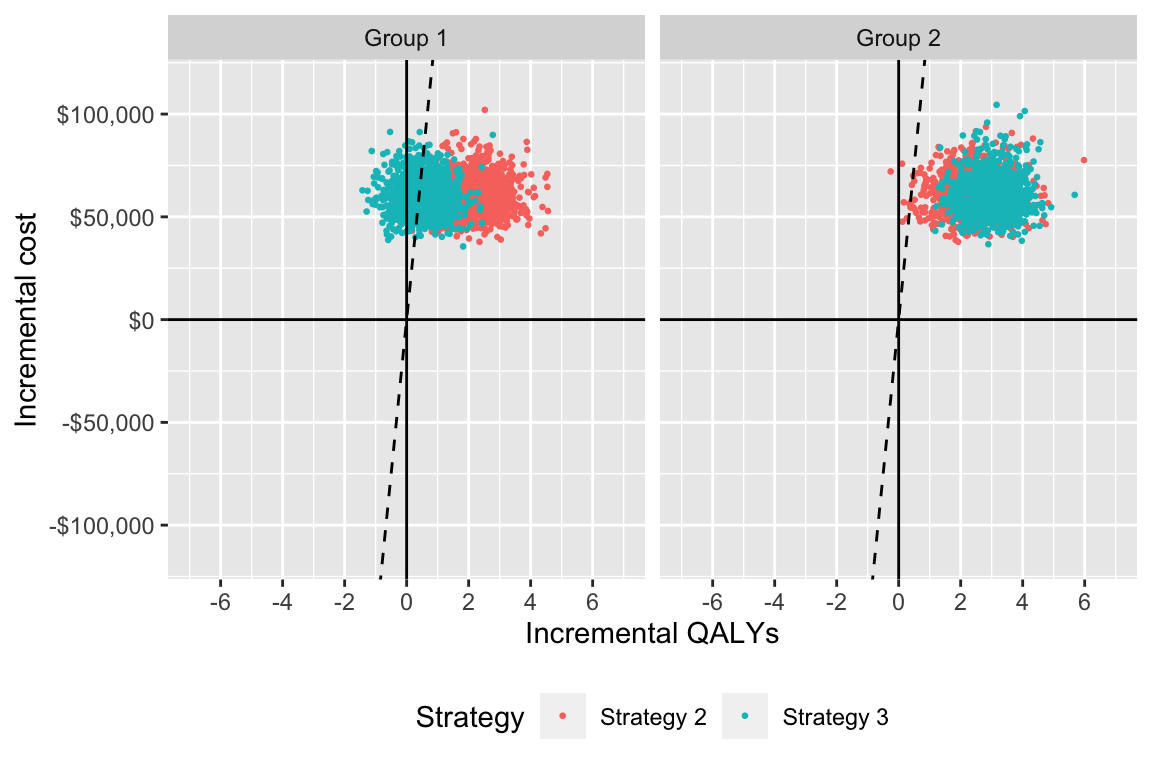
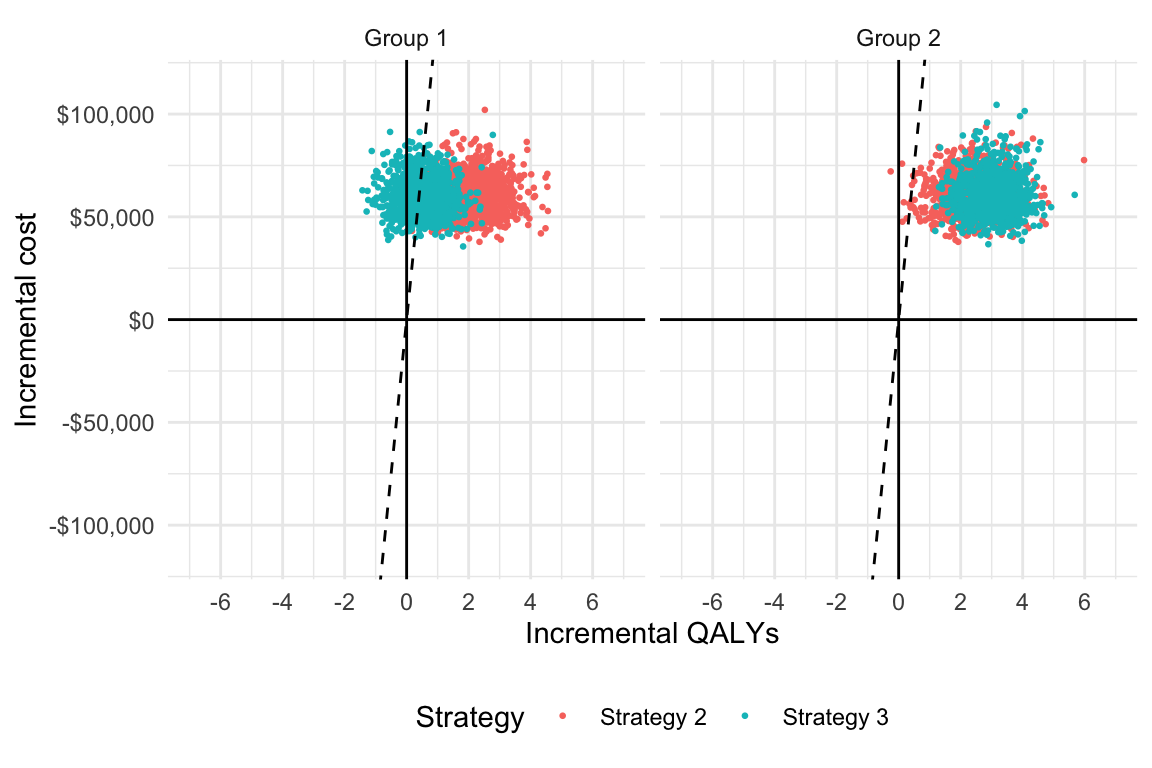
A few more replacecements of icea with cea and some more modifications to the CEA vignette

diff --git a/docs/dev/articles/cea.html b/docs/dev/articles/cea.html
@@ -111,7 +111,7 @@
     <div class="page-header toc-ignore">
       <h1 data-toc-skip>Cost-effectiveness analysis</h1>
             
-            <h4 class="date">2020-09-18</h4>
+            <h4 class="date">2020-09-19</h4>
       
       <small class="dont-index">Source: <a href="https://github.com/hesim-dev/hesim/blob/master/vignettes/cea.Rmd"><code>vignettes/cea.Rmd</code></a></small>
       <div class="hidden name"><code>cea.Rmd</code></div>
@@ -132,13 +132,13 @@
 <li>cost-effectiveness acceptability frontiers (CEAFs).</li>
 <li>the expected value of perfect information (EVPI).</li>
 </ul>
-<p>Cost-effectiveness analysis (CEA) can be performed for a single target population of interest or used to perform subgroup analysis, which is sometimes referred to as individualized CEA (iCEA).</p>
-<p>The rest of this article provides an overview of CEA and how it can be conducted using <code>hesim</code>. The perspective is Bayesian in nature in that it is concerned with estimating the entire distribution of outcomes rather than just expected values <span class="citation">(Baio 2012; Baio and Dawid 2015)</span>. It also shows how an iCEA can be performed so that both optimal treatments and the cost-effectiveness of those treatments vary across individuals <span class="citation">(Basu and Meltzer 2007; Espinoza et al. 2014)</span>.</p>
+<p>Cost-effectiveness analysis (CEA) can be performed for a single target population or for different subgroups. The latter is sometimes referred to as individualized CEA (iCEA).</p>
+<p>The rest of this article provides an overview of CEA and how it can be conducted using <code>hesim</code>. The perspective is Bayesian in nature in that it is concerned with estimating the distribution of outcomes rather than just expected values <span class="citation">(Baio 2012; Baio and Dawid 2015)</span>. It also shows how an iCEA can be performed so that both optimal treatments and the cost-effectiveness of those treatments vary across individuals <span class="citation">(Basu and Meltzer 2007; Espinoza et al. 2014)</span>.</p>
 </div>
 <div id="framework" class="section level1">
 <h1 class="hasAnchor">
 <a href="#framework" class="anchor"></a>Framework</h1>
-<p>Decision analysis provides a formal framework for making treatment decisions based on the utility that a therapy provides to a patient population. Decisions are typically made using a net benefit approach grounded in expected utility theory. The optimal treatment strategy is the one that maximizes expected NMBs where expected NMBs are calculated by averaging over the patient population and uncertain parameters <span class="math inline">\(\theta\)</span>. For a given subgroup <span class="math inline">\(g\)</span> and parameter set <span class="math inline">\(\theta\)</span>, NMBs are computed as the difference between the monetized health gains from an intervention less costs, or,</p>
+<p>Decision theory provides a formal framework for making treatment decisions based on the utility that a therapy provides to a patient population. Decisions are typically made using a net benefit approach grounded in expected utility theory. The optimal treatment strategy is the one that maximizes expected NMBs where expected NMBs are calculated by averaging over the patient population and uncertain parameters <span class="math inline">\(\theta\)</span>. For a given subgroup <span class="math inline">\(g\)</span> and parameter set <span class="math inline">\(\theta\)</span>, NMBs are computed as the difference between the monetized health gains from an intervention less costs, or,</p>
 <p><span class="math display">\[
 \begin{aligned}
 NMB_g(j,\theta) = e_{gj}\cdot k- c_{gj},
@@ -226,22 +226,22 @@ c_{gj} &amp;= [c_{gj}^1, c_{gj}^2, \dots, c_{gj}^n].
 ## 1: Strategy 1 1200672 1200323
 ## 2: Strategy 2 1447770 1509467
 ## 3: Strategy 3 1215793 1589370</code></pre>
-<p>A number of measures have been proposed in the health economics literature to summarize the PSA. Below we describe the most common measures, which can be calculated using the functions <code>cea</code> and <code>cea_pw</code>. The <code>cea</code> function summarizes results by taking into account each treatment strategy in the analysis, while the function <code>cea_pw</code> summarizes “pairwise” results in which each treatment is compared to a comparator.</p>
-<p><code>cea</code> and <code>cea_pw</code> are generic functions that can be used to summarize results from a <code>data.table</code> containing simulated costs and QALYs or from a <code><a href="../reference/ce.html">hesim::ce</a></code> object produced from the <code>$summarize()</code> method of an economic model. In this example we use a <code>data.table</code> object.</p>
+<p>A number of measures have been proposed in the health economics literature to summarize the PSA. Below we describe the most common measures, which can be calculated using the functions <code><a href="../reference/cea.html">cea()</a></code> and <code><a href="../reference/cea.html">cea_pw()</a></code>. The former summarizes results by taking into account each treatment strategy in the analysis, while the latter summarizes “pairwise” results in which each treatment is compared to a comparator.</p>
+<p>Both are generic functions that can be used to summarize results from a <code>data.table</code> containing simulated costs and QALYs or from a <code><a href="../reference/ce.html">hesim::ce</a></code> object produced from the <code>$summarize()</code> method of an economic model. In this example we use a <code>data.table</code> object.</p>
 <div class="sourceCode" id="cb5"><html><body><pre class="r"><span class="fu"><a href="https://rdrr.io/r/base/library.html">library</a></span>(<span class="st">"hesim"</span>)
 <span class="no">ktop</span> <span class="kw">&lt;-</span> <span class="fl">200000</span>
 <span class="no">cea</span> <span class="kw">&lt;-</span>  <span class="fu"><a href="../reference/cea.html">cea</a></span>(<span class="no">ce</span>, <span class="kw">k</span> <span class="kw">=</span> <span class="fu"><a href="https://rdrr.io/r/base/seq.html">seq</a></span>(<span class="fl">0</span>, <span class="no">ktop</span>, <span class="fl">500</span>), <span class="kw">sample</span> <span class="kw">=</span> <span class="st">"sample"</span>, <span class="kw">strategy</span> <span class="kw">=</span> <span class="st">"strategy"</span>,
             <span class="kw">grp</span> <span class="kw">=</span> <span class="st">"grp"</span>, <span class="kw">e</span> <span class="kw">=</span> <span class="st">"qalys"</span>, <span class="kw">c</span> <span class="kw">=</span> <span class="st">"cost"</span>)</pre></body></html></div>
 <p>The first argument is a <code>data.table</code> that contains columns for the parameter sample (<code>sample</code>), treatment strategy (<code>strategy</code>), subgroup (<code>grp</code>), clinical effectiveness (<code>e</code>), and costs (<code>c</code>). Users specify the names of the relevant columns in their output table as strings. The other relevant parameter is <span class="math inline">\(k\)</span>, which is a range of willingness to pay values to use for estimating NMBs.</p>
-<p>Likewise, we can use <code>cea_pw</code> to summarize the PSA when directly comparing the two treatment strategies (Strategy 2 and Strategy 3) to the comparator (Strategy 1).</p>
+<p>Likewise, we can use <code><a href="../reference/cea.html">cea_pw()</a></code> to summarize the PSA when directly comparing the two treatment strategies (Strategy 2 and Strategy 3) to the comparator (Strategy 1).</p>
 <div class="sourceCode" id="cb6"><html><body><pre class="r"><span class="no">cea_pw</span> <span class="kw">&lt;-</span>  <span class="fu"><a href="../reference/cea.html">cea_pw</a></span>(<span class="no">ce</span>,  <span class="kw">k</span> <span class="kw">=</span> <span class="fu"><a href="https://rdrr.io/r/base/seq.html">seq</a></span>(<span class="fl">0</span>, <span class="no">ktop</span>, <span class="fl">500</span>), <span class="kw">comparator</span> <span class="kw">=</span> <span class="st">"Strategy 1"</span>,
                   <span class="kw">sample</span> <span class="kw">=</span> <span class="st">"sample"</span>, <span class="kw">strategy</span> <span class="kw">=</span> <span class="st">"strategy"</span>, <span class="kw">grp</span> <span class="kw">=</span> <span class="st">"grp"</span>,
                   <span class="kw">e</span> <span class="kw">=</span> <span class="st">"qalys"</span>, <span class="kw">c</span> <span class="kw">=</span> <span class="st">"cost"</span>)</pre></body></html></div>
-<p>The same inputs are used as in <code>cea</code> except users must specify the name of the comparator strategy.</p>
+<p>The same inputs are used as in <code><a href="../reference/cea.html">cea()</a></code> except users must specify the name of the comparator strategy.</p>
 <div id="distribution-of-health-and-cost-outcomes" class="section level2">
 <h2 class="hasAnchor">
 <a href="#distribution-of-health-and-cost-outcomes" class="anchor"></a>Distribution of health and cost outcomes</h2>
-<p><code>cea</code> produces means, 2.5% quantiles, and 97.5% quantiles for costs and efficacy.</p>
+<p><code><a href="../reference/cea.html">cea()</a></code> produces means, 2.5% quantiles, and 97.5% quantiles for costs and efficacy.</p>
 <div class="sourceCode" id="cb7"><html><body><pre class="r"><span class="fu"><a href="https://rdrr.io/r/base/print.html">print</a></span>(<span class="no">cea</span>$<span class="no">summary</span>)</pre></body></html></div>
 <pre><code>##      strategy     grp    e_mean  e_lower   e_upper       c_mean      c_lower
 ## 1: Strategy 1 Group 1  8.004532 7.625347  8.399756     7.427476     6.134231
@@ -267,7 +267,7 @@ c_{gj} &amp;= [c_{gj}^1, c_{gj}^2, \dots, c_{gj}^n].
 ## 4: Strategy 2 Group 2 60164.995846    10.462405
 ## 5: Strategy 3 Group 1 60437.497004     8.504607
 ## 6: Strategy 3 Group 2 59557.552101    11.006864</code></pre>
-<p>Similarly, <code>cea_pw</code> produces means, 2.5% quantiles, and 97.5% quantiles for incremental costs and incremental efficacy. The table also contains the ICER, which is equal to expected incremental costs divided by the measure of expected incremental efficacy.</p>
+<p>Similarly, <code><a href="../reference/cea.html">cea_pw()</a></code> produces means, 2.5% quantiles, and 97.5% quantiles for incremental costs and incremental efficacy. The table also contains the ICER, which is equal to expected incremental costs divided by the measure of expected incremental efficacy.</p>
 <div class="sourceCode" id="cb11"><html><body><pre class="r"><span class="fu"><a href="https://rdrr.io/r/base/print.html">print</a></span>(<span class="no">cea_pw</span>$<span class="no">summary</span>)</pre></body></html></div>
 <pre><code>##      strategy     grp   ie_mean   ie_lower ie_upper  ic_mean ic_lower ic_upper
 ## 1: Strategy 2 Group 1 2.0511771  0.4379639 3.683574 60579.07 45169.67 80640.24
@@ -284,11 +284,8 @@ c_{gj} &amp;= [c_{gj}^1, c_{gj}^2, \dots, c_{gj}^n].
 <h2 class="hasAnchor">
 <a href="#cost-effectiveness-plane" class="anchor"></a>Cost-effectiveness plane</h2>
 <p>The cost-effectiveness plane plots the incremental effectiveness of a treatment strategy (relative to a comparator) against the incremental cost of the treatment strategy. The plot is useful because it demonstrates both the uncertainty and the magnitude of the estimates. Each point on the plot is from a particular random draw from the PSA.</p>
-<p>Data for plotting a cost-effectiveness plane comes from the <code>delta</code> output generated from the <code>cea_pw</code> function, which, for each sampled parameter set and treatment strategy, estimates differences in costs and QALYs relative to the comparator. The dotted line in the plot is the willingness to pay line, with slope equal to the value of <span class="math inline">\(k\)</span>. For a given <span class="math inline">\(k\)</span>, points below the line are cost-effective while those above it are not.</p>
-<div class="sourceCode" id="cb13"><html><body><pre class="r"><span class="fu"><a href="https://rdrr.io/r/base/library.html">library</a></span>(<span class="st">"ggplot2"</span>)
-<span class="fu"><a href="https://rdrr.io/r/base/library.html">library</a></span>(<span class="st">"scales"</span>)
-
-<span class="fu"><a href="https://rdrr.io/r/utils/head.html">head</a></span>(<span class="no">cea_pw</span>$<span class="no">delta</span>)</pre></body></html></div>
+<p>Data for plotting a cost-effectiveness plane comes from the <code>delta</code> output generated from the <code><a href="../reference/cea.html">cea_pw()</a></code> function, which, for each sampled parameter set and treatment strategy, estimates differences in costs and QALYs relative to the comparator.</p>
+<div class="sourceCode" id="cb13"><html><body><pre class="r"><span class="fu"><a href="https://rdrr.io/r/utils/head.html">head</a></span>(<span class="no">cea_pw</span>$<span class="no">delta</span>)</pre></body></html></div>
 <pre><code>##    sample   strategy     grp       ie       ic
 ## 1:      1 Strategy 2 Group 1 1.497467 57687.97
 ## 2:      2 Strategy 2 Group 1 1.428877 65857.23
@@ -296,14 +293,24 @@ c_{gj} &amp;= [c_{gj}^1, c_{gj}^2, \dots, c_{gj}^n].
 ## 4:      4 Strategy 2 Group 1 1.475885 64228.60
 ## 5:      5 Strategy 2 Group 1 1.045039 58613.55
 ## 6:      6 Strategy 2 Group 1 1.303221 45173.35</code></pre>
-<div class="sourceCode" id="cb15"><html><body><pre class="r"><span class="no">ylim</span> <span class="kw">&lt;-</span> <span class="fu"><a href="https://rdrr.io/r/base/Extremes.html">max</a></span>(<span class="no">cea_pw</span>$<span class="no">delta</span>[, <span class="no">ic</span>]) * <span class="fl">1.1</span>
+<p>The dotted line in the plot is the willingness to pay line, with slope equal to the value of <span class="math inline">\(k\)</span>. For a given <span class="math inline">\(k\)</span>, points below the line are cost-effective while those above it are not.</p>
+<div class="sourceCode" id="cb15"><html><body><pre class="r"><span class="fu"><a href="https://rdrr.io/r/base/library.html">library</a></span>(<span class="st">"ggplot2"</span>)
+<span class="fu"><a href="https://rdrr.io/r/base/library.html">library</a></span>(<span class="st">"scales"</span>)
+<span class="fu"><a href="https://ggplot2.tidyverse.org/reference/theme_get.html">theme_set</a></span>(<span class="fu"><a href="https://ggplot2.tidyverse.org/reference/ggtheme.html">theme_minimal</a></span>())
+
+<span class="no">ylim</span> <span class="kw">&lt;-</span> <span class="fu"><a href="https://rdrr.io/r/base/Extremes.html">max</a></span>(<span class="no">cea_pw</span>$<span class="no">delta</span>[, <span class="no">ic</span>]) * <span class="fl">1.1</span>
 <span class="no">xlim</span> <span class="kw">&lt;-</span> <span class="fu"><a href="https://rdrr.io/r/base/Round.html">ceiling</a></span>(<span class="fu"><a href="https://rdrr.io/r/base/Extremes.html">max</a></span>(<span class="no">cea_pw</span>$<span class="no">delta</span>[, <span class="no">ie</span>]) * <span class="fl">1.1</span>)
 <span class="fu"><a href="https://ggplot2.tidyverse.org/reference/ggplot.html">ggplot</a></span>(<span class="no">cea_pw</span>$<span class="no">delta</span>, <span class="fu"><a href="https://ggplot2.tidyverse.org/reference/aes.html">aes</a></span>(<span class="kw">x</span> <span class="kw">=</span> <span class="no">ie</span>, <span class="kw">y</span> <span class="kw">=</span> <span class="no">ic</span>, <span class="kw">col</span> <span class="kw">=</span> <span class="fu"><a href="https://rdrr.io/r/base/factor.html">factor</a></span>(<span class="no">strategy</span>))) +
-  <span class="fu"><a href="https://ggplot2.tidyverse.org/reference/geom_jitter.html">geom_jitter</a></span>(<span class="kw">size</span> <span class="kw">=</span> <span class="fl">.5</span>) + <span class="fu"><a href="https://ggplot2.tidyverse.org/reference/facet_wrap.html">facet_wrap</a></span>(~<span class="no">grp</span>) +
-  <span class="fu"><a href="https://ggplot2.tidyverse.org/reference/labs.html">xlab</a></span>(<span class="st">"Incremental QALYs"</span>) + <span class="fu"><a href="https://ggplot2.tidyverse.org/reference/labs.html">ylab</a></span>(<span class="st">"Incremental cost"</span>) +
-  <span class="fu"><a href="https://ggplot2.tidyverse.org/reference/scale_continuous.html">scale_y_continuous</a></span>(<span class="kw">label</span> <span class="kw">=</span> <span class="kw pkg">scales</span><span class="kw ns">::</span><span class="no"><a href="https://scales.r-lib.org//reference/label_dollar.html">dollar</a></span>, <span class="kw">limits</span> <span class="kw">=</span> <span class="fu"><a href="https://rdrr.io/r/base/c.html">c</a></span>(-<span class="no">ylim</span>, <span class="no">ylim</span>)) +
-  <span class="fu"><a href="https://ggplot2.tidyverse.org/reference/scale_continuous.html">scale_x_continuous</a></span>(<span class="kw">limits</span> <span class="kw">=</span> <span class="fu"><a href="https://rdrr.io/r/base/c.html">c</a></span>(-<span class="no">xlim</span>, <span class="no">xlim</span>), <span class="kw">breaks</span> <span class="kw">=</span> <span class="fu"><a href="https://rdrr.io/r/base/seq.html">seq</a></span>(-<span class="fl">6</span>, <span class="fl">6</span>, <span class="fl">2</span>)) +
-  <span class="fu"><a href="https://ggplot2.tidyverse.org/reference/theme.html">theme</a></span>(<span class="kw">legend.position</span> <span class="kw">=</span> <span class="st">"bottom"</span>) + <span class="fu"><a href="https://ggplot2.tidyverse.org/reference/scale_hue.html">scale_colour_discrete</a></span>(<span class="kw">name</span> <span class="kw">=</span> <span class="st">"Strategy"</span>) +
+  <span class="fu"><a href="https://ggplot2.tidyverse.org/reference/geom_jitter.html">geom_jitter</a></span>(<span class="kw">size</span> <span class="kw">=</span> <span class="fl">.5</span>) +
+  <span class="fu"><a href="https://ggplot2.tidyverse.org/reference/facet_wrap.html">facet_wrap</a></span>(~<span class="no">grp</span>) +
+  <span class="fu"><a href="https://ggplot2.tidyverse.org/reference/labs.html">xlab</a></span>(<span class="st">"Incremental QALYs"</span>) +
+  <span class="fu"><a href="https://ggplot2.tidyverse.org/reference/labs.html">ylab</a></span>(<span class="st">"Incremental cost"</span>) +
+  <span class="fu"><a href="https://ggplot2.tidyverse.org/reference/scale_continuous.html">scale_y_continuous</a></span>(<span class="kw">label</span> <span class="kw">=</span> <span class="kw pkg">scales</span><span class="kw ns">::</span><span class="no"><a href="https://scales.r-lib.org//reference/label_dollar.html">dollar</a></span>,
+                     <span class="kw">limits</span> <span class="kw">=</span> <span class="fu"><a href="https://rdrr.io/r/base/c.html">c</a></span>(-<span class="no">ylim</span>, <span class="no">ylim</span>)) +
+  <span class="fu"><a href="https://ggplot2.tidyverse.org/reference/scale_continuous.html">scale_x_continuous</a></span>(<span class="kw">limits</span> <span class="kw">=</span> <span class="fu"><a href="https://rdrr.io/r/base/c.html">c</a></span>(-<span class="no">xlim</span>, <span class="no">xlim</span>),
+                     <span class="kw">breaks</span> <span class="kw">=</span> <span class="fu"><a href="https://rdrr.io/r/base/seq.html">seq</a></span>(-<span class="fl">6</span>, <span class="fl">6</span>, <span class="fl">2</span>)) +
+  <span class="fu"><a href="https://ggplot2.tidyverse.org/reference/theme.html">theme</a></span>(<span class="kw">legend.position</span> <span class="kw">=</span> <span class="st">"bottom"</span>) +
+  <span class="fu"><a href="https://ggplot2.tidyverse.org/reference/scale_hue.html">scale_colour_discrete</a></span>(<span class="kw">name</span> <span class="kw">=</span> <span class="st">"Strategy"</span>) +
   <span class="fu"><a href="https://ggplot2.tidyverse.org/reference/geom_abline.html">geom_abline</a></span>(<span class="kw">slope</span> <span class="kw">=</span> <span class="fl">150000</span>, <span class="kw">linetype</span> <span class="kw">=</span> <span class="st">"dashed"</span>) +
   <span class="fu"><a href="https://ggplot2.tidyverse.org/reference/geom_abline.html">geom_hline</a></span>(<span class="kw">yintercept</span> <span class="kw">=</span> <span class="fl">0</span>) + <span class="fu"><a href="https://ggplot2.tidyverse.org/reference/geom_abline.html">geom_vline</a></span>(<span class="kw">xintercept</span> <span class="kw">=</span> <span class="fl">0</span>)</pre></body></html></div>
 <p><img src="cea_files/figure-html/ceplane_plot-1.png" width="576"></p>
@@ -517,26 +524,33 @@ maxj
 <pre><code>## 
 ##   1   2   3 
 ## 0.0 0.3 0.7</code></pre>
-<p>In this example, treatments 1, 2, and 3 have the highest NMBs a fraction 0, 0.3, and 0.7 of the time respectively. The <code>cea</code> function performs this same calculations for a range of values of <span class="math inline">\(k\)</span> and all <code>nsims</code> random draws of the simulation output. The output is a tidy <code>data.table</code> which facilitates plotting with <code>ggplot</code>.</p>
-<div class="sourceCode" id="cb19"><html><body><pre class="r"><span class="fu"><a href="https://ggplot2.tidyverse.org/reference/theme_get.html">theme_set</a></span>(<span class="fu"><a href="https://ggplot2.tidyverse.org/reference/ggtheme.html">theme_minimal</a></span>())
-<span class="fu"><a href="https://ggplot2.tidyverse.org/reference/ggplot.html">ggplot</a></span>(<span class="no">cea</span>$<span class="no">mce</span>, <span class="fu"><a href="https://ggplot2.tidyverse.org/reference/aes.html">aes</a></span>(<span class="kw">x</span> <span class="kw">=</span> <span class="no">k</span>, <span class="kw">y</span> <span class="kw">=</span> <span class="no">prob</span>, <span class="kw">col</span> <span class="kw">=</span> <span class="fu"><a href="https://rdrr.io/r/base/factor.html">factor</a></span>(<span class="no">strategy</span>))) +
-  <span class="fu"><a href="https://ggplot2.tidyverse.org/reference/geom_path.html">geom_line</a></span>() + <span class="fu"><a href="https://ggplot2.tidyverse.org/reference/facet_wrap.html">facet_wrap</a></span>(~<span class="no">grp</span>) + <span class="fu"><a href="https://ggplot2.tidyverse.org/reference/labs.html">xlab</a></span>(<span class="st">"Willingness to pay"</span>) +
+<p>In this example, treatments 1, 2, and 3 have the highest NMBs a fraction 0, 0.3, and 0.7 of the time respectively. The <code><a href="../reference/cea.html">cea()</a></code> function performs this same calculations for a range of values of <span class="math inline">\(k\)</span> and all <code>nsims</code> random draws of the simulation output. The output is a tidy <code>data.table</code> which facilitates plotting with <code>ggplot</code>.</p>
+<div class="sourceCode" id="cb19"><html><body><pre class="r"><span class="fu"><a href="https://ggplot2.tidyverse.org/reference/ggplot.html">ggplot</a></span>(<span class="no">cea</span>$<span class="no">mce</span>, <span class="fu"><a href="https://ggplot2.tidyverse.org/reference/aes.html">aes</a></span>(<span class="kw">x</span> <span class="kw">=</span> <span class="no">k</span>, <span class="kw">y</span> <span class="kw">=</span> <span class="no">prob</span>, <span class="kw">col</span> <span class="kw">=</span> <span class="fu"><a href="https://rdrr.io/r/base/factor.html">factor</a></span>(<span class="no">strategy</span>))) +
+  <span class="fu"><a href="https://ggplot2.tidyverse.org/reference/geom_path.html">geom_line</a></span>() +
+  <span class="fu"><a href="https://ggplot2.tidyverse.org/reference/facet_wrap.html">facet_wrap</a></span>(~<span class="no">grp</span>) +
+  <span class="fu"><a href="https://ggplot2.tidyverse.org/reference/labs.html">xlab</a></span>(<span class="st">"Willingness to pay"</span>) +
   <span class="fu"><a href="https://ggplot2.tidyverse.org/reference/labs.html">ylab</a></span>(<span class="st">"Probability most cost-effective"</span>) +
-  <span class="fu"><a href="https://ggplot2.tidyverse.org/reference/scale_continuous.html">scale_x_continuous</a></span>(<span class="kw">breaks</span> <span class="kw">=</span> <span class="fu"><a href="https://rdrr.io/r/base/seq.html">seq</a></span>(<span class="fl">0</span>, <span class="no">ktop</span>, <span class="fl">100000</span>), <span class="kw">label</span> <span class="kw">=</span> <span class="kw pkg">scales</span><span class="kw ns">::</span><span class="no"><a href="https://scales.r-lib.org//reference/label_dollar.html">dollar</a></span>) +
-  <span class="fu"><a href="https://ggplot2.tidyverse.org/reference/theme.html">theme</a></span>(<span class="kw">legend.position</span> <span class="kw">=</span> <span class="st">"bottom"</span>) + <span class="fu"><a href="https://ggplot2.tidyverse.org/reference/scale_hue.html">scale_colour_discrete</a></span>(<span class="kw">name</span> <span class="kw">=</span> <span class="st">"Strategy"</span>)</pre></body></html></div>
+  <span class="fu"><a href="https://ggplot2.tidyverse.org/reference/scale_continuous.html">scale_x_continuous</a></span>(<span class="kw">breaks</span> <span class="kw">=</span> <span class="fu"><a href="https://rdrr.io/r/base/seq.html">seq</a></span>(<span class="fl">0</span>, <span class="no">ktop</span>, <span class="fl">100000</span>),
+                     <span class="kw">label</span> <span class="kw">=</span> <span class="kw pkg">scales</span><span class="kw ns">::</span><span class="no"><a href="https://scales.r-lib.org//reference/label_dollar.html">dollar</a></span>) +
+  <span class="fu"><a href="https://ggplot2.tidyverse.org/reference/theme.html">theme</a></span>(<span class="kw">legend.position</span> <span class="kw">=</span> <span class="st">"bottom"</span>) +
+  <span class="fu"><a href="https://ggplot2.tidyverse.org/reference/scale_hue.html">scale_colour_discrete</a></span>(<span class="kw">name</span> <span class="kw">=</span> <span class="st">"Strategy"</span>)</pre></body></html></div>
 <p><img src="cea_files/figure-html/mce_plot-1.png" width="576"></p>
 <p>In group 1, Strategy 2 provides the greatest NMBs with high probability for almost all reasonable values of k. In group 2, the results are less certain, although Strategy 3 provides the greatest NMBs with a higher probability than Strategy 2.</p>
 </div>
 <div id="pairwise-comparison" class="section level3">
 <h3 class="hasAnchor">
 <a href="#pairwise-comparison" class="anchor"></a>Pairwise comparison</h3>
-<p>It is also possible to compare each strategy to a single comparator (instead of considering all strategies simultaneously). Output to produce such a plot is generated from the <code>cea_pw</code> function.</p>
+<p>It is also possible to compare each strategy to a single comparator (instead of considering all strategies simultaneously). Output to produce such a plot is generated from the <code><a href="../reference/cea.html">cea_pw()</a></code> function.</p>
 <p>The plot shows that, in subgroup 1, Strategy 2 has larger NMBs than Strategy 1 with very high probability for reasonable values of <span class="math inline">\(k\)</span>. Strategy 3 also has higher NMBs than Strategy 1 with probability over 1/2 for values of <span class="math inline">\(k\)</span> larger than 120,500. In group 2, both Strategy 2 and Strategy 3 have higher NMBs than Strategy 1 for almost all values of <span class="math inline">\(k\)</span>, although this probability is larger for Strategy 2 than Strategy 3 when <span class="math inline">\(k\)</span> is smaller.</p>
 <div class="sourceCode" id="cb20"><html><body><pre class="r"><span class="fu"><a href="https://ggplot2.tidyverse.org/reference/ggplot.html">ggplot</a></span>(<span class="no">cea_pw</span>$<span class="no">ceac</span>, <span class="fu"><a href="https://ggplot2.tidyverse.org/reference/aes.html">aes</a></span>(<span class="kw">x</span> <span class="kw">=</span> <span class="no">k</span>, <span class="kw">y</span> <span class="kw">=</span> <span class="no">prob</span>, <span class="kw">col</span> <span class="kw">=</span> <span class="fu"><a href="https://rdrr.io/r/base/factor.html">factor</a></span>(<span class="no">strategy</span>))) +
-  <span class="fu"><a href="https://ggplot2.tidyverse.org/reference/geom_path.html">geom_line</a></span>() + <span class="fu"><a href="https://ggplot2.tidyverse.org/reference/facet_wrap.html">facet_wrap</a></span>(~<span class="no">grp</span>) + <span class="fu"><a href="https://ggplot2.tidyverse.org/reference/labs.html">xlab</a></span>(<span class="st">"Willingness to pay"</span>) +
+  <span class="fu"><a href="https://ggplot2.tidyverse.org/reference/geom_path.html">geom_line</a></span>() +
+  <span class="fu"><a href="https://ggplot2.tidyverse.org/reference/facet_wrap.html">facet_wrap</a></span>(~<span class="no">grp</span>) +
+  <span class="fu"><a href="https://ggplot2.tidyverse.org/reference/labs.html">xlab</a></span>(<span class="st">"Willingness to pay"</span>) +
   <span class="fu"><a href="https://ggplot2.tidyverse.org/reference/labs.html">ylab</a></span>(<span class="st">"Probability most cost-effective"</span>) +
-  <span class="fu"><a href="https://ggplot2.tidyverse.org/reference/scale_continuous.html">scale_x_continuous</a></span>(<span class="kw">breaks</span> <span class="kw">=</span> <span class="fu"><a href="https://rdrr.io/r/base/seq.html">seq</a></span>(<span class="fl">0</span>, <span class="no">ktop</span>, <span class="fl">100000</span>), <span class="kw">label</span> <span class="kw">=</span> <span class="kw pkg">scales</span><span class="kw ns">::</span><span class="no"><a href="https://scales.r-lib.org//reference/label_dollar.html">dollar</a></span>) +
-  <span class="fu"><a href="https://ggplot2.tidyverse.org/reference/theme.html">theme</a></span>(<span class="kw">legend.position</span> <span class="kw">=</span> <span class="st">"bottom"</span>) + <span class="fu"><a href="https://ggplot2.tidyverse.org/reference/scale_hue.html">scale_colour_discrete</a></span>(<span class="kw">name</span> <span class="kw">=</span> <span class="st">"Strategy"</span>)</pre></body></html></div>
+  <span class="fu"><a href="https://ggplot2.tidyverse.org/reference/scale_continuous.html">scale_x_continuous</a></span>(<span class="kw">breaks</span> <span class="kw">=</span> <span class="fu"><a href="https://rdrr.io/r/base/seq.html">seq</a></span>(<span class="fl">0</span>, <span class="no">ktop</span>, <span class="fl">100000</span>),
+                     <span class="kw">label</span> <span class="kw">=</span> <span class="kw pkg">scales</span><span class="kw ns">::</span><span class="no"><a href="https://scales.r-lib.org//reference/label_dollar.html">dollar</a></span>) +
+  <span class="fu"><a href="https://ggplot2.tidyverse.org/reference/theme.html">theme</a></span>(<span class="kw">legend.position</span> <span class="kw">=</span> <span class="st">"bottom"</span>) +
+  <span class="fu"><a href="https://ggplot2.tidyverse.org/reference/scale_hue.html">scale_colour_discrete</a></span>(<span class="kw">name</span> <span class="kw">=</span> <span class="st">"Strategy"</span>)</pre></body></html></div>
 <p><img src="cea_files/figure-html/ceac_plot-1.png" width="576"></p>
 </div>
 </div>
@@ -546,10 +560,14 @@ maxj
 <p>One drawback of a CEAC is that the probability of being cost-effective cannot be used to determine the optimal treatment option. Instead, if a decision-makers objective is to maximize health gain, then decisions should be based on the expected NMB <span class="citation">(Barton, Briggs, and Fenwick 2008)</span>. The cost-effectiveness acceptability frontier (CEAF), which plots the probability that the optimal treatment strategy (i.e., the strategy with the highest expected NMB) is cost-effective, is appropriate in this context.</p>
 <p>A CEAF curve can be easily created by using the <code>best</code> column to subset to the treatment strategy with the highest expected NMB for each willingness to pay value and group.</p>
 <div class="sourceCode" id="cb21"><html><body><pre class="r"><span class="fu"><a href="https://ggplot2.tidyverse.org/reference/ggplot.html">ggplot</a></span>(<span class="no">cea</span>$<span class="no">mce</span>[<span class="no">best</span> <span class="kw">==</span> <span class="fl">1</span>], <span class="fu"><a href="https://ggplot2.tidyverse.org/reference/aes.html">aes</a></span>(<span class="kw">x</span> <span class="kw">=</span> <span class="no">k</span>, <span class="kw">y</span> <span class="kw">=</span> <span class="no">prob</span>, <span class="kw">col</span> <span class="kw">=</span> <span class="no">strategy</span>)) +
-  <span class="fu"><a href="https://ggplot2.tidyverse.org/reference/geom_path.html">geom_line</a></span>() + <span class="fu"><a href="https://ggplot2.tidyverse.org/reference/facet_wrap.html">facet_wrap</a></span>(~<span class="no">grp</span>) + <span class="fu"><a href="https://ggplot2.tidyverse.org/reference/labs.html">xlab</a></span>(<span class="st">"Willingness to pay"</span>) +
+  <span class="fu"><a href="https://ggplot2.tidyverse.org/reference/geom_path.html">geom_line</a></span>() +
+  <span class="fu"><a href="https://ggplot2.tidyverse.org/reference/facet_wrap.html">facet_wrap</a></span>(~<span class="no">grp</span>) +
+  <span class="fu"><a href="https://ggplot2.tidyverse.org/reference/labs.html">xlab</a></span>(<span class="st">"Willingness to pay"</span>) +
   <span class="fu"><a href="https://ggplot2.tidyverse.org/reference/labs.html">ylab</a></span>(<span class="st">"Probability most cost-effective"</span>) +
-  <span class="fu"><a href="https://ggplot2.tidyverse.org/reference/scale_continuous.html">scale_x_continuous</a></span>(<span class="kw">breaks</span> <span class="kw">=</span> <span class="fu"><a href="https://rdrr.io/r/base/seq.html">seq</a></span>(<span class="fl">0</span>, <span class="no">ktop</span>, <span class="fl">100000</span>), <span class="kw">label</span> <span class="kw">=</span> <span class="kw pkg">scales</span><span class="kw ns">::</span><span class="no"><a href="https://scales.r-lib.org//reference/label_dollar.html">dollar</a></span>) +
-  <span class="fu"><a href="https://ggplot2.tidyverse.org/reference/theme.html">theme</a></span>(<span class="kw">legend.position</span> <span class="kw">=</span> <span class="st">"bottom"</span>) + <span class="fu"><a href="https://ggplot2.tidyverse.org/reference/scale_hue.html">scale_colour_discrete</a></span>(<span class="kw">name</span> <span class="kw">=</span> <span class="st">"Strategy"</span>)</pre></body></html></div>
+  <span class="fu"><a href="https://ggplot2.tidyverse.org/reference/scale_continuous.html">scale_x_continuous</a></span>(<span class="kw">breaks</span> <span class="kw">=</span> <span class="fu"><a href="https://rdrr.io/r/base/seq.html">seq</a></span>(<span class="fl">0</span>, <span class="no">ktop</span>, <span class="fl">100000</span>),
+                     <span class="kw">label</span> <span class="kw">=</span> <span class="kw pkg">scales</span><span class="kw ns">::</span><span class="no"><a href="https://scales.r-lib.org//reference/label_dollar.html">dollar</a></span>) +
+  <span class="fu"><a href="https://ggplot2.tidyverse.org/reference/theme.html">theme</a></span>(<span class="kw">legend.position</span> <span class="kw">=</span> <span class="st">"bottom"</span>) +
+  <span class="fu"><a href="https://ggplot2.tidyverse.org/reference/scale_hue.html">scale_colour_discrete</a></span>(<span class="kw">name</span> <span class="kw">=</span> <span class="st">"Strategy"</span>)</pre></body></html></div>
 <p><img src="cea_files/figure-html/ceaf_plot-1.png" width="576"></p>
 </div>
 <div id="value-of-perfect-information" class="section level2">
@@ -854,7 +872,8 @@ totEVPI &amp;= \sum_{g=1}^{G} w_g EVPI_g,
 <span class="fu"><a href="https://ggplot2.tidyverse.org/reference/ggplot.html">ggplot</a></span>(<span class="no">totevpi</span>, <span class="fu"><a href="https://ggplot2.tidyverse.org/reference/aes.html">aes</a></span>(<span class="kw">x</span> <span class="kw">=</span> <span class="no">k</span>, <span class="kw">y</span> <span class="kw">=</span> <span class="no">evpi</span>)) +
   <span class="fu"><a href="https://ggplot2.tidyverse.org/reference/geom_path.html">geom_line</a></span>() + <span class="fu"><a href="https://ggplot2.tidyverse.org/reference/labs.html">xlab</a></span>(<span class="st">"Willingness to pay"</span>) +
   <span class="fu"><a href="https://ggplot2.tidyverse.org/reference/labs.html">ylab</a></span>(<span class="st">"Total EVPI"</span>) +
-  <span class="fu"><a href="https://ggplot2.tidyverse.org/reference/scale_continuous.html">scale_x_continuous</a></span>(<span class="kw">breaks</span> <span class="kw">=</span> <span class="fu"><a href="https://rdrr.io/r/base/seq.html">seq</a></span>(<span class="fl">0</span>, <span class="no">ktop</span>, <span class="fl">100000</span>), <span class="kw">label</span> <span class="kw">=</span> <span class="kw pkg">scales</span><span class="kw ns">::</span><span class="no"><a href="https://scales.r-lib.org//reference/label_dollar.html">dollar</a></span>) +
+  <span class="fu"><a href="https://ggplot2.tidyverse.org/reference/scale_continuous.html">scale_x_continuous</a></span>(<span class="kw">breaks</span> <span class="kw">=</span> <span class="fu"><a href="https://rdrr.io/r/base/seq.html">seq</a></span>(<span class="fl">0</span>, <span class="no">ktop</span>, <span class="fl">100000</span>),
+                     <span class="kw">label</span> <span class="kw">=</span> <span class="kw pkg">scales</span><span class="kw ns">::</span><span class="no"><a href="https://scales.r-lib.org//reference/label_dollar.html">dollar</a></span>) +
   <span class="fu"><a href="https://ggplot2.tidyverse.org/reference/scale_continuous.html">scale_y_continuous</a></span>(<span class="kw">label</span> <span class="kw">=</span> <span class="kw pkg">scales</span><span class="kw ns">::</span><span class="no"><a href="https://scales.r-lib.org//reference/label_dollar.html">dollar</a></span>) +
   <span class="fu"><a href="https://ggplot2.tidyverse.org/reference/theme.html">theme</a></span>(<span class="kw">legend.position</span> <span class="kw">=</span> <span class="st">"bottom"</span>)</pre></body></html></div>
 <p><img src="cea_files/figure-html/totevpi-1.png" width="576"></p>

diff --git a/docs/dev/reference/summarize_ce.html b/docs/dev/reference/summarize_ce.html
@@ -42,7 +42,7 @@
 <meta property="og:title" content="Summarize costs and effectiveness — summarize_ce" />
 <meta property="og:description" content="Summarize costs and quality-adjusted life-years (QALYs) given output simulated
 from an economic model. The summary output is used to perform
-cost-effectiveness analysis with icea() and icea_pw()." />
+cost-effectiveness analysis with cea() and cea_pw()." />
 
 
 <meta name="robots" content="noindex">
@@ -159,7 +159,7 @@ cost-effectiveness analysis with icea() and icea_pw()." />
     <div class="ref-description">
     <p>Summarize costs and quality-adjusted life-years (QALYs) given output simulated
 from an economic model. The summary output is used to perform
-cost-effectiveness analysis with <code><a href='icea.html'>icea()</a></code> and <code><a href='icea.html'>icea_pw()</a></code>.</p>
+cost-effectiveness analysis with <code><a href='cea.html'>cea()</a></code> and <code><a href='cea.html'>cea_pw()</a></code>.</p>
     </div>
 
     <pre class="usage"><span class='fu'>summarize_ce</span>(<span class='no'>costs</span>, <span class='no'>qalys</span>, <span class='kw'>by_grp</span> <span class='kw'>=</span> <span class='fl'>FALSE</span>)</pre>

diff --git a/src/cea.cpp b/src/cea.cpp
@@ -16,7 +16,7 @@
  * value in @p k, each of the @p n_samples randomly sampled parameter sets, 
  * and each of the @p n_grps subgroups. This value is exported to @c R and 
  * used in the internal function @c calc_incr_effect() (which is, in turn,
- * used in the functions @c incr_effect() and @c icea_pw()).
+ * used in the functions @c incr_effect() and @c cea_pw()).
  */
 // [[Rcpp::export]]
 std::vector<double> C_incr_effect(std::vector<double> x, std::vector<double> y,
@@ -54,7 +54,7 @@ std::vector<double> C_incr_effect(std::vector<double> x, std::vector<double> y,
  * monetary benefit of a given treatment strategy is greater than the net monetary
  * benefit of a comparator for a willingngess to pay value in @p k and each of 
  * the @p n_grps subgroups. This value is exported to @c R and used in the 
- * function @c ceac() (which is, in turn, used in @c icea()).
+ * function @c ceac() (which is, in turn, used in @c ccea()).
  */
 // [[Rcpp::export]]
 std::vector<double> C_ceac(std::vector<double> k, std::vector<double> ie,
@@ -108,7 +108,7 @@ std::vector<double> C_ceac(std::vector<double> k, std::vector<double> ie,
  * @return A vector where each element is the probability that a given 
  * treatment strategy is the most cost-effective for a given willingness to pay 
  * value in @p k and one of the @p n_grps subgroups. This value is exported to 
- * @c R and used in the function @c mce() (which is, in turn, used in @c icea()).
+ * @c R and used in the function @c mce() (which is, in turn, used in @c cea()).
  */
 // [[Rcpp::export]]
 std::vector<double> C_mce(std::vector<double> k, std::vector<double> e,
@@ -164,7 +164,7 @@ std::vector<double> C_mce(std::vector<double> k, std::vector<double> e,
  * @return A vector of the expected net monetary benefit given perfect 
  * information computed for each willingness to pay value in @p k and each of the
  * @p n_grps subgroups. This value is exported to @c R and used in the 
- * function @c icea().
+ * function @c cea().
  */
 // [[Rcpp::export]]
 std::vector<double> C_enmbpi(std::vector<double> k,
